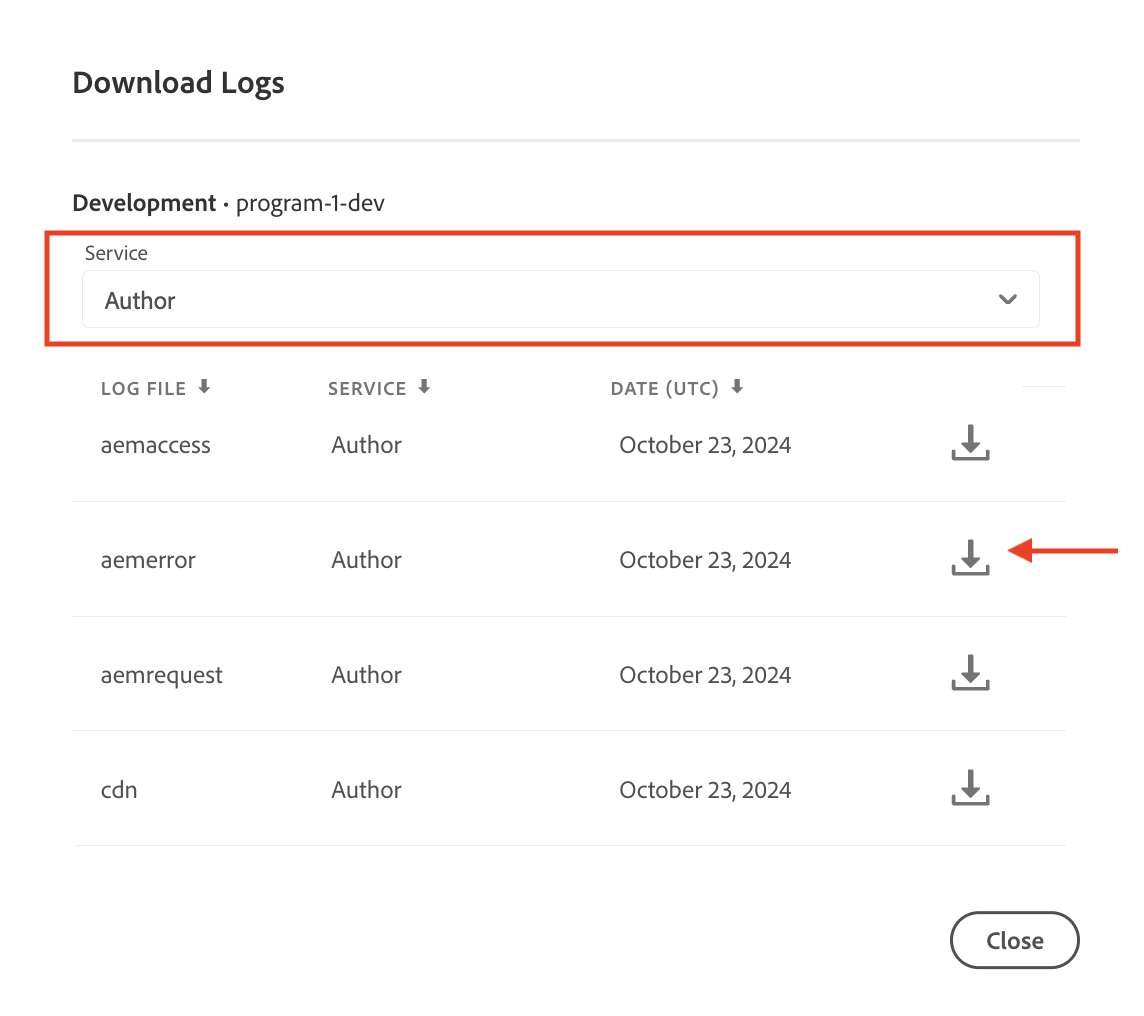
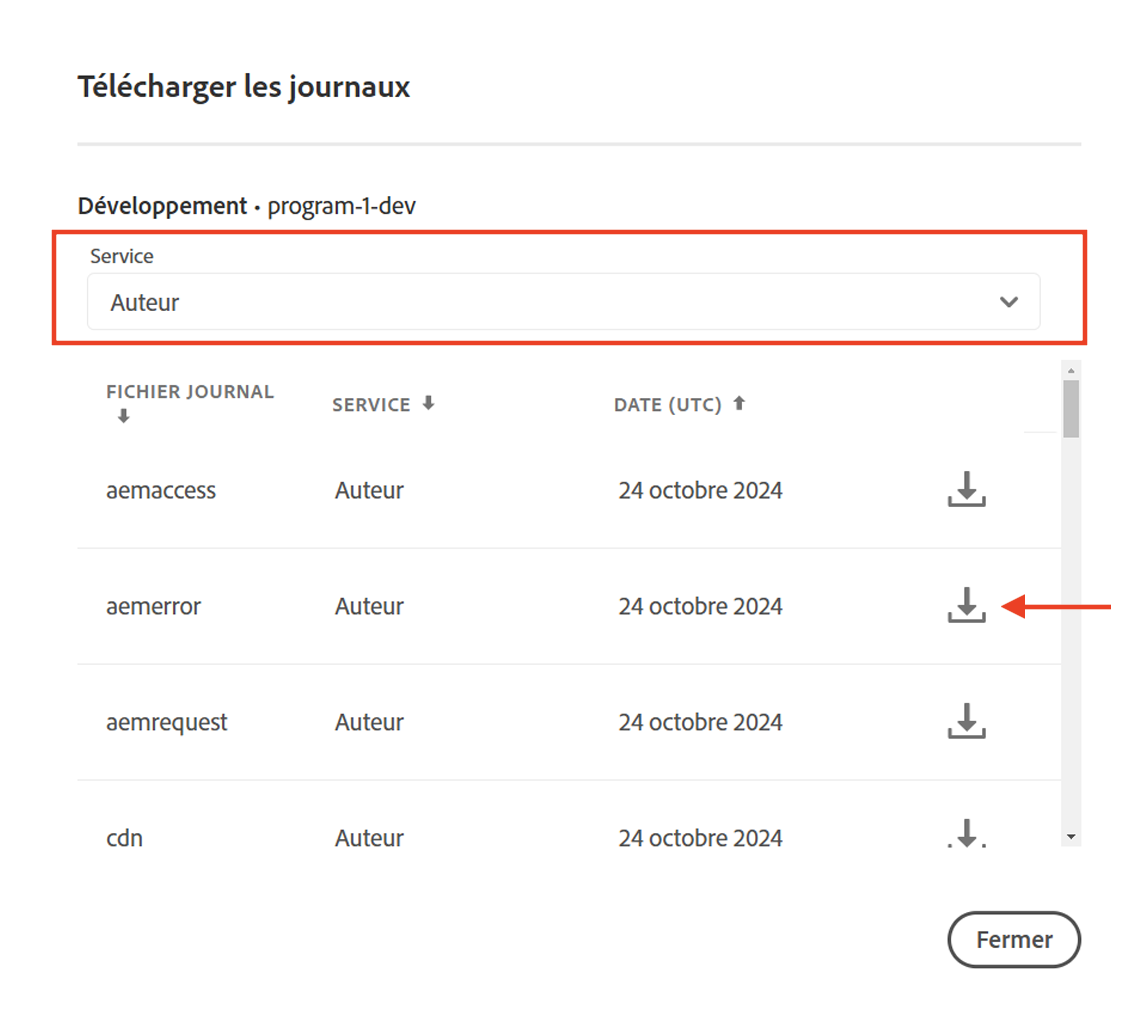
Updated by task 'AUTO_HANDOFF_1730203392376'  Changes for core/source commit https://git.corp.adobe.com/AdobeDocs/experience-manager-learn.en/commit/3e7668067f9e001b92011a3735fc8debe829e1c9

diff --git a/help/cloud-service/developing/advanced/run-job-on-leader-instance-in-aem-author.md b/help/cloud-service/developing/advanced/run-job-on-leader-instance-in-aem-author.md
@@ -1,6 +1,6 @@
 ---
-title: Exécution d’une tâche sur l’instance principale dans AEM as a Cloud Service
-description: Découvrez comment exécuter une tâche sur l’instance principale dans AEM as a Cloud Service.
+title: Exécution d’une tâche sur l’instance principale dans AEM as a Cloud Service
+description: Découvrez comment exécuter une tâche sur l’instance principale dans AEM as a Cloud Service.
 version: Cloud Service
 topic: Development
 feature: OSGI, Cloud Manager
@@ -12,28 +12,28 @@ last-substantial-update: 2024-10-23T00:00:00Z
 jira: KT-16399
 thumbnail: KT-16399.jpeg
 source-git-commit: 7dca86137d476418c39af62c3c7fa612635c0583
-workflow-type: tm+mt
+workflow-type: ht
 source-wordcount: '557'
-ht-degree: 0%
+ht-degree: 100%
 
 ---
 
 
-# Exécution d’une tâche sur l’instance principale dans AEM as a Cloud Service
+# Exécution d’une tâche sur l’instance principale dans AEM as a Cloud Service
 
-Découvrez comment exécuter une tâche sur l’instance principale dans le service de création d’AEM dans AEM as a Cloud Service et comment la configurer pour qu’elle s’exécute une seule fois.
+Découvrez comment exécuter une tâche sur l’instance principale du service de création AEM dans le cadre d’AEM as a Cloud Service et la configurer pour qu’elle ne s’exécute qu’une seule fois.
 
-Les tâches Sling sont des tâches asynchrones qui fonctionnent en arrière-plan, conçues pour gérer les événements système ou déclenchés par l’utilisateur. Par défaut, ces tâches sont réparties uniformément entre toutes les instances (capsules) de la grappe.
+Les tâches Sling sont des tâches asynchrones qui fonctionnent en arrière-plan, conçues pour gérer les événements déclenchés par le système ou les personnes qui les utilisent. Par défaut, ces tâches sont réparties uniformément entre toutes les instances (capsules) du cluster.
 
-Pour plus d’informations, voir [Gestion des tâches et des événements Apache Sling](https://sling.apache.org/documentation/bundles/apache-sling-eventing-and-job-handling.html).
+Pour plus d’informations, consultez la section [Gestion des tâches et des événements Apache Sling](https://sling.apache.org/documentation/bundles/apache-sling-eventing-and-job-handling.html).
 
 ## Création et traitement de tâches
 
-À des fins de démonstration, créons une tâche _simple qui demande au processeur de tâches de consigner un message_.
+À des fins de démonstration, créons une _tâche simple qui demande au processeur de tâche de consigner un message_.
 
 ### Création d’une tâche
 
-Utilisez le code ci-dessous pour _créer_ une tâche Apache Sling :
+Utilisez le code ci-dessous pour _créer_ une tâche Apache Sling :
 
 ```java
 package com.adobe.aem.guides.wknd.core.sling.jobs.impl;
@@ -77,14 +77,14 @@ public class SimpleJobCreaterImpl {
 }
 ```
 
-Les points clés à noter dans le code ci-dessus sont les suivants :
+Les points clés à noter dans le code ci-dessus sont les suivants :
 
-- La charge utile de tâche possède deux propriétés : `action` et `message`.
-- À l’aide de la méthode `addJob(...)` de [JobManager](https://javadoc.io/doc/com.adobe.aem/aem-sdk-api/latest/org/apache/sling/event/jobs/JobManager.html), la tâche est ajoutée à la rubrique `wknd/simple/job/topic`.
+- La payload de la tâche possède deux propriétés : `action` et `message`.
+- En utilisant la méthode `addJob(...)` de [JobManager](https://javadoc.io/doc/com.adobe.aem/aem-sdk-api/latest/org/apache/sling/event/jobs/JobManager.html), la tâche est ajoutée à la rubrique `wknd/simple/job/topic`.
 
 ### Traitement d’une tâche
 
-Utilisez le code ci-dessous pour _process_ de la tâche Apache Sling ci-dessus :
+Utilisez le code ci-dessous pour _traiter_ la tâche Apache Sling ci-dessus :
 
 ```java
 package com.adobe.aem.guides.wknd.core.sling.jobs.impl;
@@ -120,28 +120,28 @@ public class SimpleJobConsumerImpl implements JobConsumer {
 }
 ```
 
-Les points clés à noter dans le code ci-dessus sont les suivants :
+Les points clés à noter dans le code ci-dessus sont les suivants :
 
-- La classe `SimpleJobConsumerImpl` met en oeuvre l’interface `JobConsumer`.
-- Il s’agit d’un service enregistré pour consommer des tâches de la rubrique `wknd/simple/job/topic`.
-- La méthode `process(...)` traite la tâche en enregistrant la propriété `message` de la charge utile de tâche.
+- La classe `SimpleJobConsumerImpl` met en œuvre l’interface `JobConsumer`.
+- Il s’agit d’un service enregistré pour consommer les tâches de la rubrique `wknd/simple/job/topic`.
+- La méthode `process(...)` traite la tâche en enregistrant la propriété `message` de la payload de la tâche.
 
 ### Traitement des tâches par défaut
 
-Lorsque vous déployez le code ci-dessus dans un environnement AEM as a Cloud Service et que vous l’exécutez sur le service d’auteur d’AEM, qui fonctionne comme une grappe avec plusieurs JVM d’auteur d’AEM, la tâche s’exécute une fois sur chaque instance d’auteur d’AEM (pod), ce qui signifie que le nombre de tâches créées correspondra au nombre de capsules. Le nombre de capsules sera toujours supérieur à un (pour les environnements non-RDE), mais fluctuera en fonction de la gestion des ressources internes d’AEM as a Cloud Service.
+Lorsque vous déployez le code ci-dessus dans un environnement AEM as a Cloud Service et que vous l’exécutez sur le service de création AEM, qui fonctionne comme un cluster avec plusieurs JVM de création AEM, la tâche s’exécute une fois sur chaque instance de création AEM (capsule), ce qui signifie que le nombre de tâches créées correspondra au nombre de capsules. Le nombre de capsules est toujours supérieur à un (pour les environnements non-RDE), mais fluctue en fonction de la gestion des ressources internes d’AEM as a Cloud Service.
 
-La tâche est exécutée sur chaque instance d’auteur AEM (pod), car `wknd/simple/job/topic` est associé à AEM file d’attente principale d’qui distribue les tâches sur toutes les instances disponibles.
+La tâche est exécutée sur chaque instance de création AEM (capsule), car la `wknd/simple/job/topic` est associée à la file d’attente principale d’AEM, qui distribue les tâches à toutes les instances disponibles.
 
-Cela est souvent problématique si la tâche est responsable de la modification de l’état, comme la création ou la mise à jour de ressources ou de services externes.
+Cela devient souvent problématique lorsque la tâche est responsable de modifier un état, comme la création ou la mise à jour de ressources ou de services externes.
 
-Si vous souhaitez que la tâche ne s’exécute qu’une seule fois sur le service d’auteur AEM, ajoutez la [configuration de la file d’attente de travaux](#how-to-run-a-job-on-the-leader-instance) décrite ci-dessous.
+Si vous souhaitez que la tâche ne s’exécute qu’une seule fois sur le service de création AEM, ajoutez la [configuration de la file d’attente des tâches](#how-to-run-a-job-on-the-leader-instance) décrite ci-dessous.
 
-Vous pouvez le vérifier en consultant les journaux du service d’auteur AEM dans [Cloud Manager](https://experienceleague.adobe.com/en/docs/experience-manager-learn/cloud-service/debugging/debugging-aem-as-a-cloud-service/logs#cloud-manager).
+Vous pouvez confirmer l’exécution en consultant les journaux du service de création AEM dans [Cloud Manager](https://experienceleague.adobe.com/fr/docs/experience-manager-learn/cloud-service/debugging/debugging-aem-as-a-cloud-service/logs#cloud-manager).
 
 ![Traitement de la tâche par toutes les instances](./assets/run-job-once/job-processed-by-all-instances.png)
 
 
-Vous devriez voir :
+Vous devriez voir :
 
 ```
 <DD.MM.YYYY HH:mm:ss.SSS> [cm-pxxxx-exxxx-aem-author-68775db964-nxxcx] *INFO* [sling-oak-observation-15] org.apache.sling.event.impl.jobs.queues.JobQueueImpl.<main queue> Starting job queue <main queue>
@@ -151,11 +151,11 @@ Vous devriez voir :
 <DD.MM.YYYY HH:mm:ss.SSS> INFO [com.adobe.aem.guides.wknd.core.sling.jobs.impl.SimpleJobConsumerImpl] Processing WKND Job, and Job metadata is: Created in activate method
 ```
 
-Il existe deux entrées de journal, une pour chaque instance d’auteur AEM (`68775db964-nxxcx` et `68775db964-r4zk7`), indiquant que chaque instance (capsule) a traité la tâche.
+deux entrées de journal, une pour chaque instance de création AEM (`68775db964-nxxcx` et `68775db964-r4zk7`), indiquant que chaque instance (capsule) a bien traité la tâche.
 
 ## Exécution d’une tâche sur l’instance principale
 
-Pour exécuter une tâche _une seule fois_ sur le service d’auteur AEM, créez une nouvelle file d’attente de tâche Sling de type **Ordered** et associez votre rubrique de tâche (`wknd/simple/job/topic`) à cette file d’attente. Avec cette configuration, seule l’instance d’auteur (pod) de l’AEM principale pourra traiter la tâche.
+Pour exécuter une tâche _une seule fois_ sur le service de création AEM, créez une nouvelle file d’attente des tâches Sling de type **Ordered** et associez votre rubrique de tâche (`wknd/simple/job/topic`) à cette file d’attente. Avec cette configuration, seule l’instance principale de création (capsule) AEM peut traiter la tâche.
 
 Dans le module `ui.config` de votre projet AEM, créez un fichier de configuration OSGi (`org.apache.sling.event.jobs.QueueConfiguration~wknd.cfg.json`) et stockez-le dans le dossier `ui.config/src/main/content/jcr_root/apps/wknd/osgiconfig/config.author`.
 
@@ -171,13 +171,13 @@ Dans le module `ui.config` de votre projet AEM, créez un fichier de configurati
   }
 ```
 
-Les points clés à noter dans la configuration ci-dessus sont les suivants :
+Les points clés à noter dans la configuration ci-dessus sont les suivants :
 
-- La rubrique de la file d’attente est définie sur `wknd/simple/job/topic`.
+- La rubrique de file d’attente est définie sur `wknd/simple/job/topic`.
 - Le type de file d’attente est défini sur `ORDERED`.
 - Le nombre maximal de tâches parallèles est défini sur `1`.
 
-Une fois la configuration ci-dessus déployée, la tâche est traitée exclusivement par l’instance principale, en s’assurant qu’elle ne s’exécute qu’une seule fois sur l’ensemble du service d’auteur AEM.
+Une fois la configuration ci-dessus déployée, la tâche est traitée exclusivement par l’instance principale, garantissant qu’elle ne s’exécute qu’une seule fois sur l’ensemble du service de création AEM.
 
 ```
 <DD.MM.YYYY HH:mm:ss.SSS> [cm-pxxxx-exxxx-aem-author-7475cf85df-qdbq5] *INFO* [FelixLogListener] Events.Service.org.apache.sling.event Service [QueueMBean for queue WKND Queue - ORDERED,7755, [org.apache.sling.event.jobs.jmx.StatisticsMBean]] ServiceEvent REGISTERED

diff --git a/help/assets/advanced/blocked-tags.md b/help/assets/advanced/blocked-tags.md
@@ -1,6 +1,6 @@
 ---
 title: Balises bloquées
-description: Découvrez comment améliorer la gestion des ressources dans AEM as a Cloud Service en utilisant les balises bloquées pour empêcher l’application de balises intelligentes sensibles à la culture, non pertinentes ou controversées.
+description: Découvrez comment améliorer la gestion des ressources dans AEM as a Cloud Service en utilisant les balises bloquées pour empêcher l’application de balises intelligentes sensibles à la culture, non pertinentes ou controversées.
 version: Cloud Service
 feature: Asset Management
 topic: Content Management
@@ -13,14 +13,14 @@ jira: KT-14778
 thumbnail: 3426839.jpeg
 exl-id: 0d02faeb-6290-4f57-800c-4f7ee62f1352
 source-git-commit: 7b98bc06892c897ae76f51f62e5503e667756fda
-workflow-type: tm+mt
+workflow-type: ht
 source-wordcount: '60'
-ht-degree: 6%
+ht-degree: 100%
 
 ---
 
 # Balises bloquées
 
-Découvrez comment améliorer la gestion des ressources dans AEM as a Cloud Service en utilisant les balises bloquées pour empêcher l’application de balises intelligentes sensibles à la culture, non pertinentes ou controversées.
+Découvrez comment améliorer la gestion des ressources dans AEM as a Cloud Service en utilisant les balises bloquées pour empêcher l’application de balises intelligentes sensibles à la culture, non pertinentes ou controversées.
 
 >[!VIDEO](https://video.tv.adobe.com/v/3426839/?learn=on)
